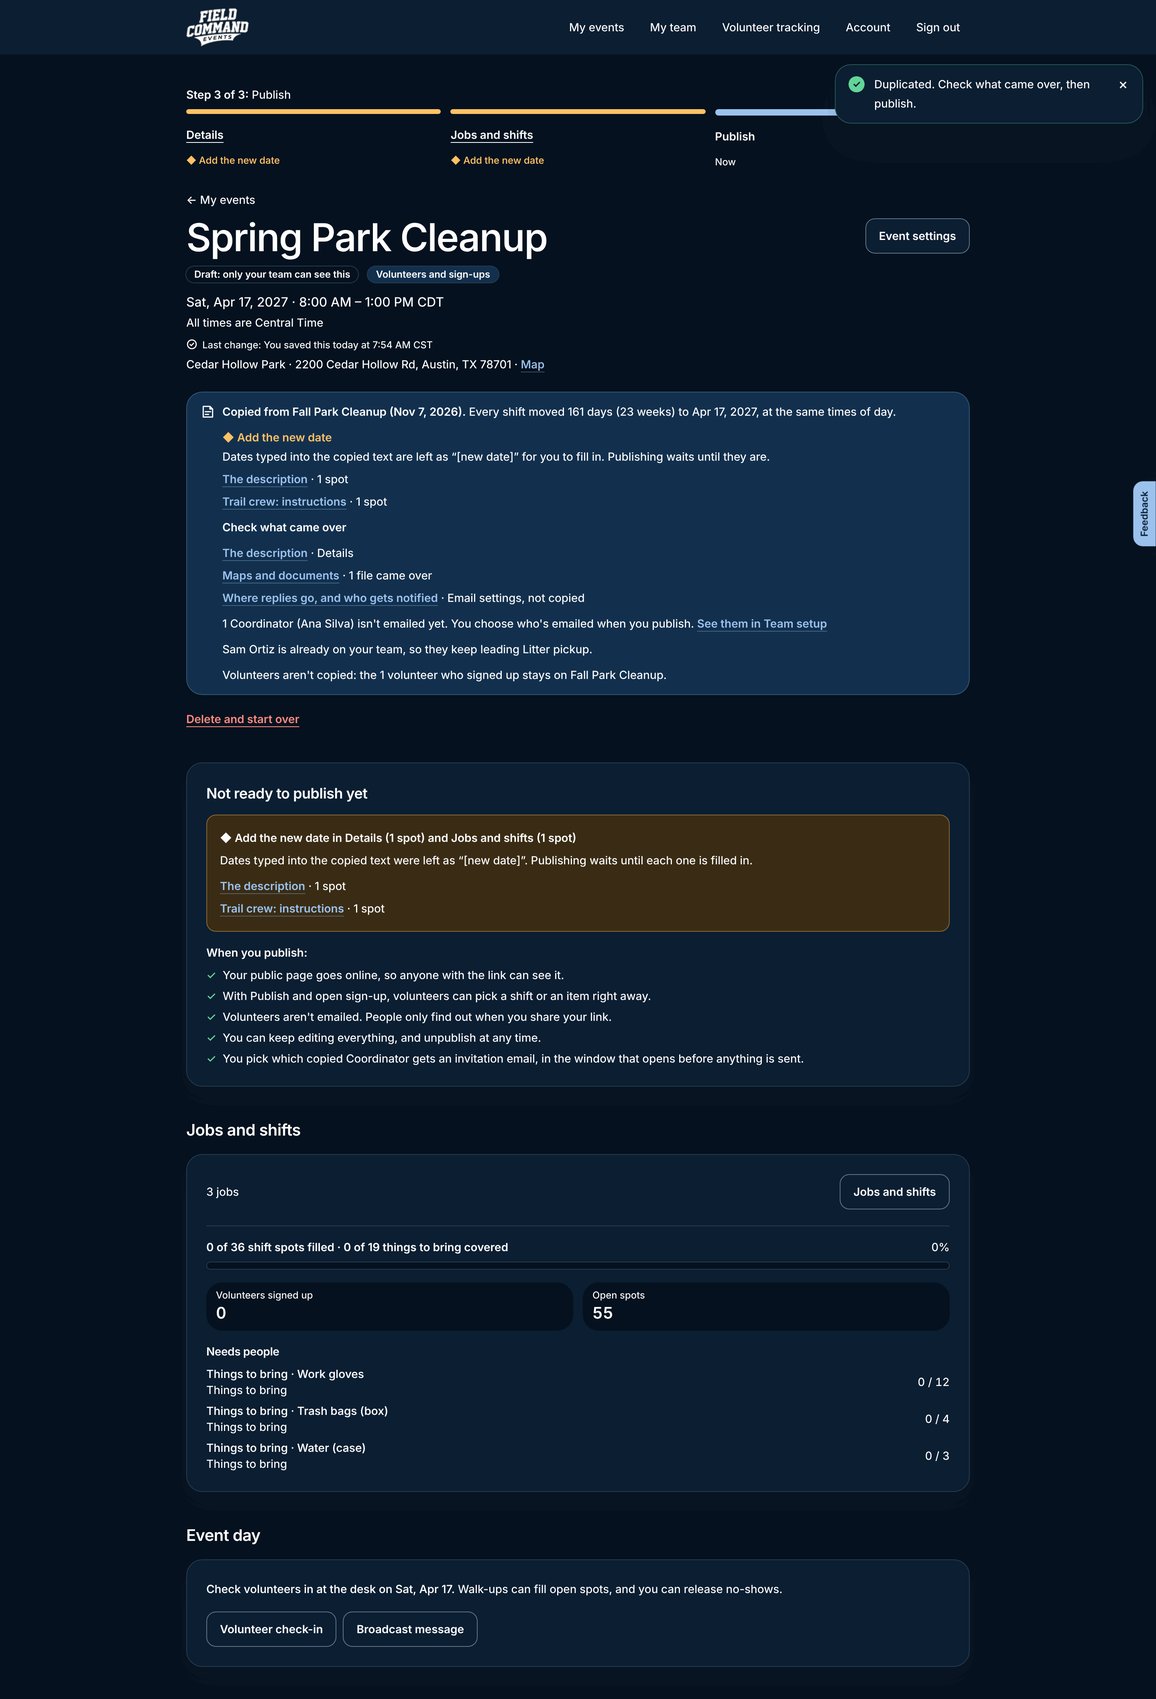
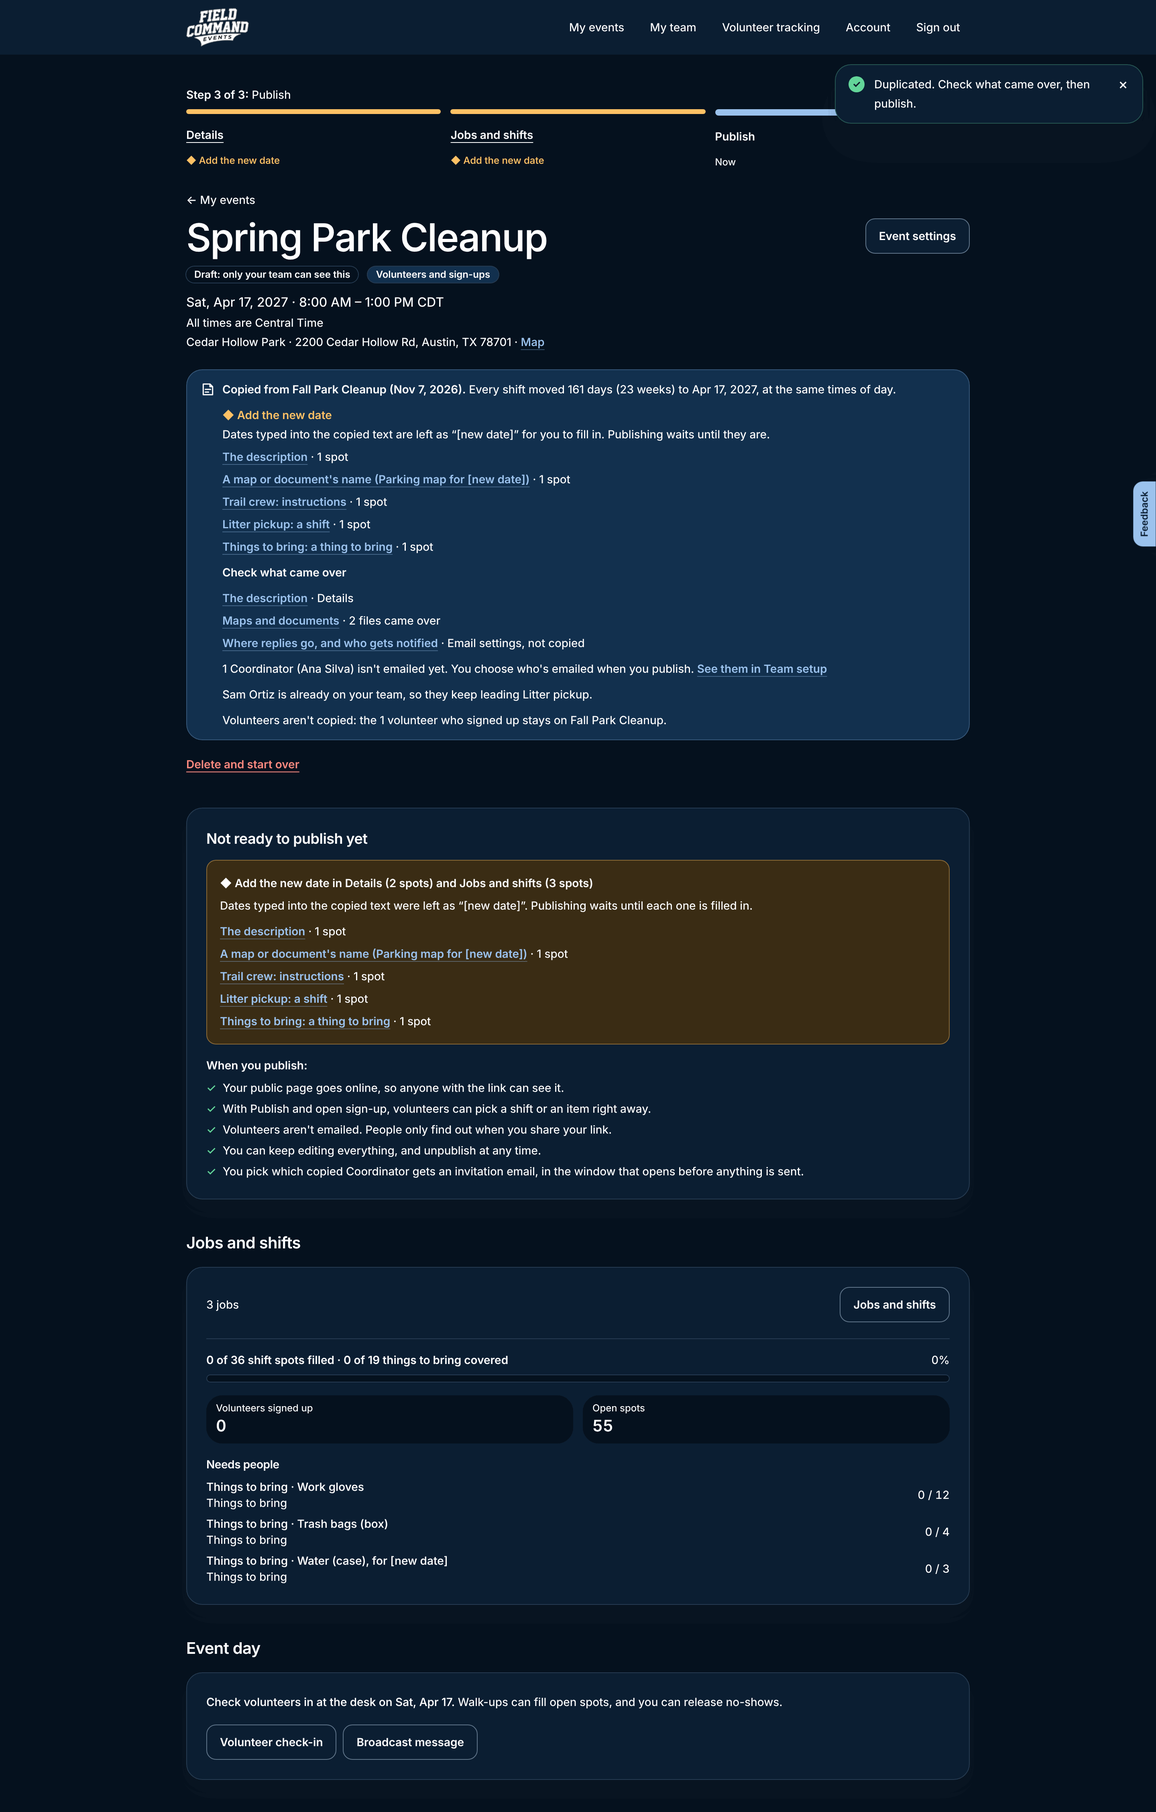
Duplicate event: every [new date] link lands on its field; a Description box on Details
Claude-Session: https://claude.ai/code/session_015NaEPpF7tacknYvkWK5f8d

diff --git a/src/components/new-date-note.tsx b/src/components/new-date-note.tsx
@@ -1,0 +1,56 @@
+"use client";
+
+import { usePathname, useSearchParams } from "next/navigation";
+import { useEffect } from "react";
+
+// Duplicate event (owner decision 2026-11-20): dates typed into copied text become "[new date]", and publishing waits
+// until each is filled in. Every field that can hold one says so right above it, and every link to a spot ends in
+// #new-date, which opens whatever it's folded in (More options, Edit shift) and puts the cursor on the marker.
+
+const MARKER = "[new date]";
+
+/** "◆ Add the new date where it says [new date]", above a field whose text still holds the marker. */
+export function NewDateNote({ value, spot, className = "" }: { value: string | null | undefined; spot: string; className?: string }) {
+  if (!value?.includes(MARKER)) return null;
+  return (
+    // data-new-date: which kind of spot, so #new-date-[spot] lands here (newDateSpotHref).
+    <p data-new-date={spot} className={`scroll-mt-4 text-sm font-medium text-warning ${className}`}>
+      <span aria-hidden>◆ </span>Add the new date where it says &ldquo;{MARKER}&rdquo;
+    </p>
+  );
+}
+
+/**
+ * Arriving with #new-date: the first field holding "[new date]" is opened (any folded section around it), scrolled
+ * to, and focused with the marker selected, so typing replaces it.
+ */
+export function NewDateScroll() {
+  const pathname = usePathname();
+  const query = useSearchParams();
+  useEffect(() => {
+    const hash = window.location.hash;
+    if (!hash.startsWith("#new-date")) return;
+    const spot = hash.slice("#new-date-".length);
+    const t = setTimeout(() => {
+      // The note for this kind of spot (or the first one), then the marked field after it.
+      const notes = [...document.querySelectorAll<HTMLElement>("[data-new-date]")];
+      const note = notes.find((n) => n.dataset.newDate === spot) ?? notes[0];
+      const fields = [...document.querySelectorAll<HTMLInputElement | HTMLTextAreaElement>("input, textarea")].filter((f) => f.value.includes(MARKER));
+      const field = (note && fields.find((f) => note.compareDocumentPosition(f) & Node.DOCUMENT_POSITION_FOLLOWING)) ?? fields[0];
+      if (!field) return;
+      for (let el: HTMLElement | null = field; el; el = el.parentElement) if (el instanceof HTMLDetailsElement) el.open = true;
+      // The note and the field both in sight: the note at the top when they fit, else the field in the middle.
+      if (note && field.getBoundingClientRect().bottom - note.getBoundingClientRect().top < window.innerHeight - 40) note.scrollIntoView({ block: "start" });
+      else field.scrollIntoView({ block: "center" });
+      field.focus({ preventScroll: true });
+      const at = field.value.indexOf(MARKER);
+      try {
+        field.setSelectionRange(at, at + MARKER.length);
+      } catch {
+        // Not a text field: the cursor is there, at least.
+      }
+    }, 400);
+    return () => clearTimeout(t);
+  }, [pathname, query]);
+  return null;
+}

diff --git a/src/lib/duplicate-event.ts b/src/lib/duplicate-event.ts
@@ -1,7 +1,7 @@
 import "server-only";
 import { cache } from "react";
 import { getOrigin } from "@/lib/data";
-import { addDays, coordinatorStatus, type NewDateSpot } from "@/lib/duplicate-words";
+import { addDays, coordinatorStatus, newDateSpotHref, type NewDateSpot } from "@/lib/duplicate-words";
 import { FILES_BUCKET } from "@/lib/event-files";
 import { createAdminClient, createClient } from "@/lib/supabase/server";
 
@@ -182,14 +182,23 @@ export const loadCopyPublishCheck = cache(async (eventId: string): Promise<CopyP
  * The step bar's light check: each copied step "copied" until opened, then "opened" (checked off); and how many
  * "[new date]" markers each step holds ("Add the new date"). Empty for an event that wasn't duplicated.
  */
-export async function loadCopySteps(eventId: string): Promise<{ copied: Partial<Record<string, "copied" | "opened">>; newDates: Partial<Record<string, number>> }> {
+export async function loadCopySteps(eventId: string): Promise<{
+  copied: Partial<Record<string, "copied" | "opened">>;
+  newDates: Partial<Record<string, number>>;
+  newDateHrefs: Partial<Record<string, string>>;
+}> {
   const supabase = await createClient();
   const { data, error } = await supabase.from("event_copy_steps").select("step, opened_at").eq("event_id", eventId);
-  if (error || !data?.length) return { copied: {}, newDates: {} };
+  if (error || !data?.length) return { copied: {}, newDates: {}, newDateHrefs: {} };
   const { data: spots } = await supabase.rpc("copy_new_date_spots", { p_event: eventId });
   const newDates: Partial<Record<string, number>> = {};
-  for (const s of (spots ?? []) as NewDateSpot[]) newDates[s.step] = (newDates[s.step] ?? 0) + s.count;
-  return { copied: Object.fromEntries(data.map((s) => [s.step, s.opened_at ? "opened" : "copied"])), newDates };
+  // Each step's link lands on its first marker (the right job, its field open, the cursor on "[new date]").
+  const newDateHrefs: Partial<Record<string, string>> = {};
+  for (const s of (spots ?? []) as NewDateSpot[]) {
+    newDates[s.step] = (newDates[s.step] ?? 0) + s.count;
+    newDateHrefs[s.step] ??= newDateSpotHref(`/dashboard/events/${eventId}`, s);
+  }
+  return { copied: Object.fromEntries(data.map((s) => [s.step, s.opened_at ? "opened" : "copied"])), newDates, newDateHrefs };
 }
 
 /** One copied Coordinator as Team setup and the event page show them (the ladder's words worked out once). */

diff --git a/src/app/dashboard/events/[eventId]/forms.tsx b/src/app/dashboard/events/[eventId]/forms.tsx
@@ -17,6 +17,7 @@ import { StepNotice, useStepEdits } from "./volunteering/station-steps";
 import { copyDialog } from "@/components/confirm-dialog";
 import { CO_HOST_POWERS } from "@/lib/team-words";
 import { TimeField } from "@/components/time-field";
+import { NewDateNote } from "@/components/new-date-note";
 
 type Action = (prev: ActionState, formData: FormData) => Promise<ActionState>;
 
@@ -128,6 +129,7 @@ export function StationForm({
           <ZoneInput zones={zones} defaultValue={initial?.zone} />
         </Field>
       )}
+      <NewDateNote value={initial?.location} spot="instructions" className="sm:col-span-2" />
       <Field label="Location" hint="Optional. Where volunteers should report." className="sm:col-span-2">
         <Input
           name="location"
@@ -143,6 +145,7 @@ export function StationForm({
           </datalist>
         )}
       </Field>
+      <NewDateNote value={initial?.instructions} spot="instructions" className="sm:col-span-2" />
       <Field label="Instructions for volunteers" hint="Optional. What to wear, bring, and do." className="sm:col-span-2">
         <Textarea name="instructions" defaultValue={initial?.instructions ?? ""} />
       </Field>
@@ -494,6 +497,7 @@ export function ShiftForm({
         unadded(f);
       }}
     >
+      <NewDateNote value={`${initial?.title ?? ""} ${initial?.description ?? ""}`} spot="shift" className="sm:col-span-2" />
       {initial && (
         <Field label="Title" className="sm:col-span-2">
           <Input name="title" required defaultValue={initial.title} placeholder="e.g. Morning parking crew" />
@@ -854,6 +858,7 @@ function ItemRow({ item: it, autosave }: { item: EditableItem; autosave: boolean
         className={autosave ? "contents" : `grid items-center gap-3 grid-cols-[minmax(0,1fr)_6rem] ${itemCols(false)}`}
       >
         {autosave && <input type="hidden" name="auto" value="1" />}
+        <NewDateNote value={it.name} spot="item" className="col-span-full" />
         <Input name="name" required maxLength={100} defaultValue={it.name} aria-label="Item" className={autosave ? "col-span-3 sm:col-span-1" : undefined} />
         {autosave && <NeededLabel />}
         <NumberInput name="needed" required defaultValue={it.needed} maxLength={3} aria-label={`How many ${it.name} needed`} />

diff --git a/src/app/dashboard/events/_components/event-form.tsx b/src/app/dashboard/events/_components/event-form.tsx
@@ -4,7 +4,8 @@ import { useState, type ReactNode } from "react";
 import { AutosaveBar, useAutosaveForm } from "@/components/autosave";
 import { ActionForm } from "@/components/action-form";
 import { SubmitButton } from "@/components/submit-button";
-import { Field, Input, Select } from "@/components/ui";
+import { Field, Input, Select, Textarea } from "@/components/ui";
+import { NewDateNote } from "@/components/new-date-note";
 import { VenuePicker, type VenueValue } from "@/components/venue-picker";
 import type { ActionState } from "@/lib/action-state";
 import Link from "next/link";
@@ -25,6 +26,11 @@ export type EventFormValues = {
   venue?: VenueValue;
   /** Conferences: whether families give their child's name when they book. */
   askChildName?: boolean;
+  /**
+   * The description on the event's public page, when it has one (a duplicated event brings its source's, with any
+   * typed date left as "[new date]" to fill in). Undefined: no box.
+   */
+  description?: string | null;
 };
 
 /** Used for both creating and editing an event. */
@@ -211,6 +217,17 @@ export function EventForm({
           <LineIcon name="lock" inline /><strong>Family privacy:</strong> families see only the open times, never who else booked. Children&apos;s
           names and parents&apos; notes are seen only by you and your co-hosts, and are permanently deleted 30 days after the conference.
         </p>
+      )}
+
+      {initial.description != null && (
+        // id: the copy's links land here (#new-date puts the cursor on the marker).
+        <div id="description" className="scroll-mt-24 space-y-1.5">
+          <NewDateNote value={initial.description} spot="description" />
+          <input type="hidden" name="descriptionField" value="1" />
+          <Field label="Description" hint="Shown on your public page.">
+            <Textarea name="description" maxLength={4000} rows={4} defaultValue={initial.description} />
+          </Field>
+        </div>
       )}
 
       {extra}

diff --git a/src/app/dashboard/events/[eventId]/volunteering/job-form.tsx b/src/app/dashboard/events/[eventId]/volunteering/job-form.tsx
@@ -1,6 +1,7 @@
 "use client";
 
 import Link from "next/link";
+import { NewDateNote } from "@/components/new-date-note";
 import { useRouter } from "next/navigation";
 import { useCallback, useEffect, useRef, useState, useSyncExternalStore, type ReactNode } from "react";
 import { createPortal } from "react-dom";
@@ -239,7 +240,8 @@ export function JobForm({
         <Input name="name" required maxLength={80} defaultValue={initial.name} />
       </Field>
       <InSlot id="job-more">
-        <details open={openMore} className="group rounded-lg border border-border">
+        {/* Open when the copied instructions still hold "[new date]", so it's in sight. */}
+        <details open={openMore || Boolean(initial.instructions?.includes("[new date]"))} className="group rounded-lg border border-border">
           <summary className="flex min-h-11 cursor-pointer list-none items-center justify-between gap-3 px-3 text-sm font-semibold [&::-webkit-details-marker]:hidden">
             <span>
               {stopHere ? "More options: band check-in stop, Coordinators, instructions, and age rules" : "More options: Coordinators, instructions, and age rules"}
@@ -253,6 +255,7 @@ export function JobForm({
           <div className="space-y-3 border-t border-border p-3">
             {stopHere && <CheckInStopFields kind={stop} setKind={setStop} initial={initial} formId={FORM} orderHref={links.order} />}
             <CoordinatorPicker label={leadLabel} initial={initial.lead_ids ?? []} onChange={changed} formId={FORM} {...coordinators} />
+            <NewDateNote value={initial.instructions} spot="instructions" />
             <Field label="Instructions for volunteers" hint="Optional. What to wear, bring, and do.">
               <Textarea name="instructions" form={FORM} defaultValue={initial.instructions ?? ""} />
             </Field>

diff --git a/src/lib/duplicate-words.ts b/src/lib/duplicate-words.ts
@@ -136,12 +136,32 @@ export function newDateSpotLabel(s: NewDateSpot) {
   return s.station_id ? `${s.job}: ${s.what.charAt(0).toLowerCase()}${s.what.slice(1)}` : `${s.what} (${s.job})`;
 }
 
-/** Where each "[new date]" is filled in. */
+/**
+ * Where each "[new date]" is filled in. #new-date opens whatever the field is folded in (More options, Edit shift)
+ * and puts the cursor on the marker (NewDateScroll).
+ */
 export function newDateSpotHref(base: string, s: NewDateSpot) {
-  if (s.step === "details") return s.what.startsWith("A map") ? `${base}/edit?section=files` : `${base}/edit`;
-  if (s.step === "registration") return `${base}/bands`;
-  if (s.step === "rooms") return `${base}/rooms`;
-  return `${base}/volunteering${s.station_id ? `?station=${s.station_id}` : ""}`;
+  const path =
+    s.step === "details"
+      ? s.what.startsWith("A map")
+        ? `${base}/edit?section=files`
+        : `${base}/edit`
+      : s.step === "registration"
+        ? `${base}/bands`
+        : s.step === "rooms"
+          ? `${base}/rooms`
+          : `${base}/volunteering${s.station_id ? `?station=${s.station_id}` : ""}`;
+  // Which field on that page (NewDateNote's spot), so two on one page each land on their own.
+  const spot =
+    s.what === "The description" ? "description"
+    : s.what.startsWith("A map") ? "file"
+    : s.what === "The information for directors" ? "director-info"
+    : s.what === "The meal details" ? "meal-details"
+    : s.what === "A room's note" ? "room"
+    : s.what === "A shift" ? "shift"
+    : s.what === "A thing to bring" ? "item"
+    : "instructions";
+  return `${path}#new-date-${spot}`;
 }
 
 /** "Add the new date in Details: 1 spot", or "… in Details (1 spot) and Jobs and shifts (2 spots)". */

diff --git a/src/app/dashboard/events/[eventId]/edit/files-manager.tsx b/src/app/dashboard/events/[eventId]/edit/files-manager.tsx
@@ -7,6 +7,7 @@ import { uploadToSignedUrl } from "@/lib/signed-upload";
 import type { UploadedFile } from "../../../file-actions";
 import { confirmDialog } from "@/components/confirm-dialog";
 import { DateField } from "@/components/date-field";
+import { NewDateNote } from "@/components/new-date-note";
 
 const TYPES = ["application/pdf", "image/jpeg", "image/png"];
 const MAX = 10 * 1024 * 1024;
@@ -43,7 +44,8 @@ export function FilesManager({
   saveFile: (fileId: string | null, uploaded: UploadedFile | null, prev: ActionState, formData: FormData) => Promise<ActionState>;
   deleteFile: (fileId: string) => Promise<ActionState>;
 }) {
-  const [editing, setEditing] = useState<string | null>(files.length === 0 ? "new" : null);
+  // A copy: a file whose name still holds "[new date]" starts open, so the name box is in sight.
+  const [editing, setEditing] = useState<string | null>(files.length === 0 ? "new" : (files.find((f) => f.label.includes("[new date]"))?.id ?? null));
   const [message, setMessage] = useState<string | null>(null);
   const label = (v: string) => audiences.find((a) => a.value === v)?.label ?? v;
 
@@ -239,6 +241,7 @@ function FileForm({
           className="block w-full text-sm file:mr-3 file:min-h-10 file:rounded-md file:border file:border-border file:bg-surface file:px-3 file:text-sm file:font-medium"
         />
       </Field>
+      <NewDateNote value={label} spot="file" />
       <Field label="Name" hint="What people will see, e.g. Stadium & parking map.">
         <Input name="label" value={label} onChange={(e) => setLabel(e.target.value)} required maxLength={120} />
       </Field>

diff --git a/src/app/dashboard/events/[eventId]/edit/page.tsx b/src/app/dashboard/events/[eventId]/edit/page.tsx
@@ -85,7 +85,7 @@ export default async function EditEventPage({ params, searchParams }: PageProps<
   const { data: event } = await supabase
     .from("events")
     .select(
-      "id, organization_id, name, status, event_type, created_by, timezone, starts_on, ends_on, window_start, window_end, venue_name, venue_address, venue_place_id, venue_lat, venue_lng, band_registration_open, band_registration_deadline, band_registration_opens_on",
+      "id, organization_id, name, status, event_type, created_by, timezone, starts_on, ends_on, window_start, window_end, venue_name, venue_address, venue_place_id, venue_lat, venue_lng, band_registration_open, band_registration_deadline, band_registration_opens_on, public_notes",
     )
     .eq("id", eventId)
     .maybeSingle();
@@ -410,6 +410,8 @@ export default async function EditEventPage({ params, searchParams }: PageProps<
                       lng: event.venue_lng,
                     },
                     askChildName,
+                    // The description, once there is one (a duplicated event brings its source's): editable here.
+                    description: event.public_notes ?? undefined,
                   }}
                   venueSearchEnabled={isPlacesConfigured}
                   submitLabel={guided ? "Save and continue" : "Save changes"}

diff --git a/src/app/dashboard/events/[eventId]/layout.tsx b/src/app/dashboard/events/[eventId]/layout.tsx
@@ -15,6 +15,8 @@ import { SetupSteps } from "@/components/volunteer-steps";
 import { STEP_PATHS, type SetupStepFacts, type StepsKind } from "@/lib/setup-steps";
 import { hasConferences, hasRooms } from "@/lib/event-types";
 import { loadCopySteps } from "@/lib/duplicate-event";
+import { NewDateScroll } from "@/components/new-date-note";
+import { Suspense } from "react";
 
 /**
  * Every page of an event. On the day itself, the team's jobs of the day are a
@@ -59,6 +61,10 @@ export default async function EventLayout({ children, params }: LayoutProps<"/da
       {/* Festivals: the step bar while setting up, the event page's next step once live; no setup strip (owner, 2026-11-11). */}
       {facts && facts.eventType !== "group_event" && <SetupStrip eventId={eventId} initial={setupChecklist(facts)} skip={kind ? (kind === "meeting" ? [...STEP_PATHS.meeting, "/conferences"] : STEP_PATHS[kind]) : undefined} />}
       {children}
+      {/* A copy's "[new date]" links (#new-date): open the field and put the cursor on the marker. */}
+      <Suspense fallback={null}>
+        <NewDateScroll />
+      </Suspense>
       {/* Room for the tab bar along the bottom of a phone. */}
       {day && <div aria-hidden className="h-16 lg:hidden print:hidden" />}
     </>

diff --git a/src/app/dashboard/events/[eventId]/bands/registration-settings.tsx b/src/app/dashboard/events/[eventId]/bands/registration-settings.tsx
@@ -17,6 +17,7 @@ import { ChipAdder } from "@/components/chip-adder";
 import { normalizePhone } from "@/lib/phone";
 import { formatDate } from "@/lib/time";
 import { DateField } from "@/components/date-field";
+import { NewDateNote } from "@/components/new-date-note";
 
 /** How long after the last keystroke a field saves itself. */
 const SAVE_AFTER_MS = 900;
@@ -571,6 +572,8 @@ export function RegistrationSettings({
 
         {!datesFirst && dates}
 
+        {/* A copy: a date typed into the information came over as "[new date]" (live: it goes once replaced). */}
+        <NewDateNote value={info.value} spot="director-info" />
         <AutoField
           id="reg-info"
           label="Information for directors"
@@ -664,6 +667,7 @@ export function RegistrationSettings({
                     </p>
                   )}
                 </fieldset>
+                <NewDateNote value={mealDetails.value} spot="meal-details" />
                 <AutoField
                   id="reg-meal-details"
                   label="Meal details"

diff --git a/src/app/dashboard/events/[eventId]/rooms/rooms-editor.tsx b/src/app/dashboard/events/[eventId]/rooms/rooms-editor.tsx
@@ -10,6 +10,7 @@ import { SaveFooter } from "./save-footer";
 import { planTimes, roomNameMap, type Conflict, type Snapshot } from "./schedule-plan";
 import { useSaveQueue, type RunResult } from "./use-save-queue";
 import { ConflictWindow, EmailChoice, SaveTimesWindow, Window } from "./windows";
+import { NewDateNote } from "@/components/new-date-note";
 
 type Row = { key: string; id?: string; name: string; note: string; onPath: boolean; minutes: string };
 
@@ -368,6 +369,7 @@ export function RoomsEditor({
           )}
           <label className="flex min-w-0 flex-col gap-1.5">
             <span className="text-sm font-semibold">Where it is (optional)</span>
+            <NewDateNote value={r.note} spot="room" />
             <Input value={r.note} maxLength={200} onChange={(e) => set(r.key, { note: e.target.value })} placeholder={inPath ? "For example, Room 112, east hallway" : "For example, Library"} className={EX} />
           </label>
         </div>

diff --git a/src/app/dashboard/actions.ts b/src/app/dashboard/actions.ts
@@ -228,10 +228,13 @@ export async function updateEvent(eventId: string, _prev: ActionState, formData:
   // A conference's school is set in Conference Setup, not here.
   const conference = hasConferences(before?.event_type);
   if (!conference && !v.venueAddress) return { error: "Venue: Required" };
+  // The description box shows once there is one (a duplicated event brings its source's).
+  const description = formData.get("descriptionField") === "1" ? String(formData.get("description") ?? "").trim().slice(0, 4000) : undefined;
   const details = await supabase
     .from("events")
     .update({
       name: v.name,
+      ...(description === undefined ? {} : { public_notes: description || null }),
       ...(conference
         ? // Only when it changed, so details still save before the 20261219000000 update.
           v.askChildNameField && (v.askChildName === "on") !== (await asksChildName(supabase, eventId))
